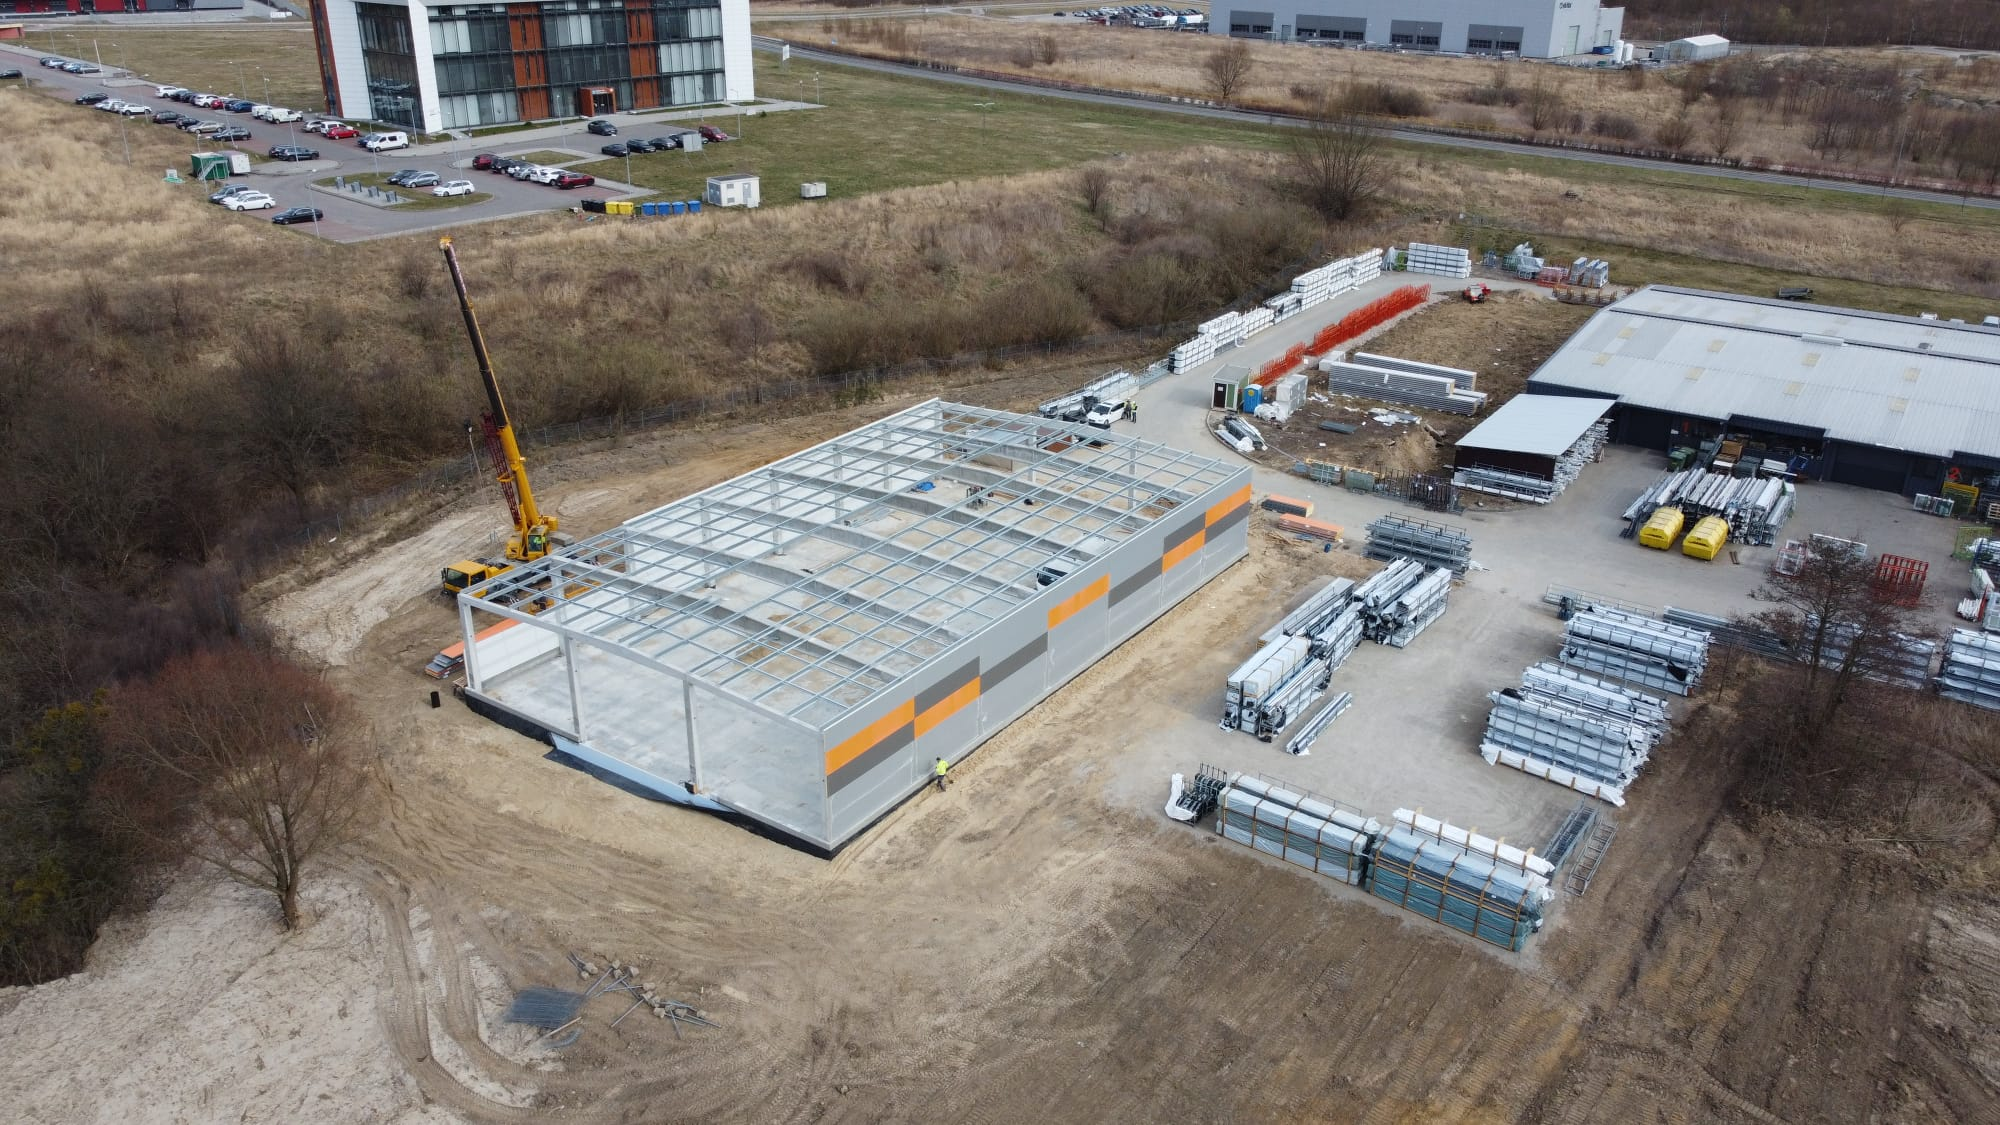
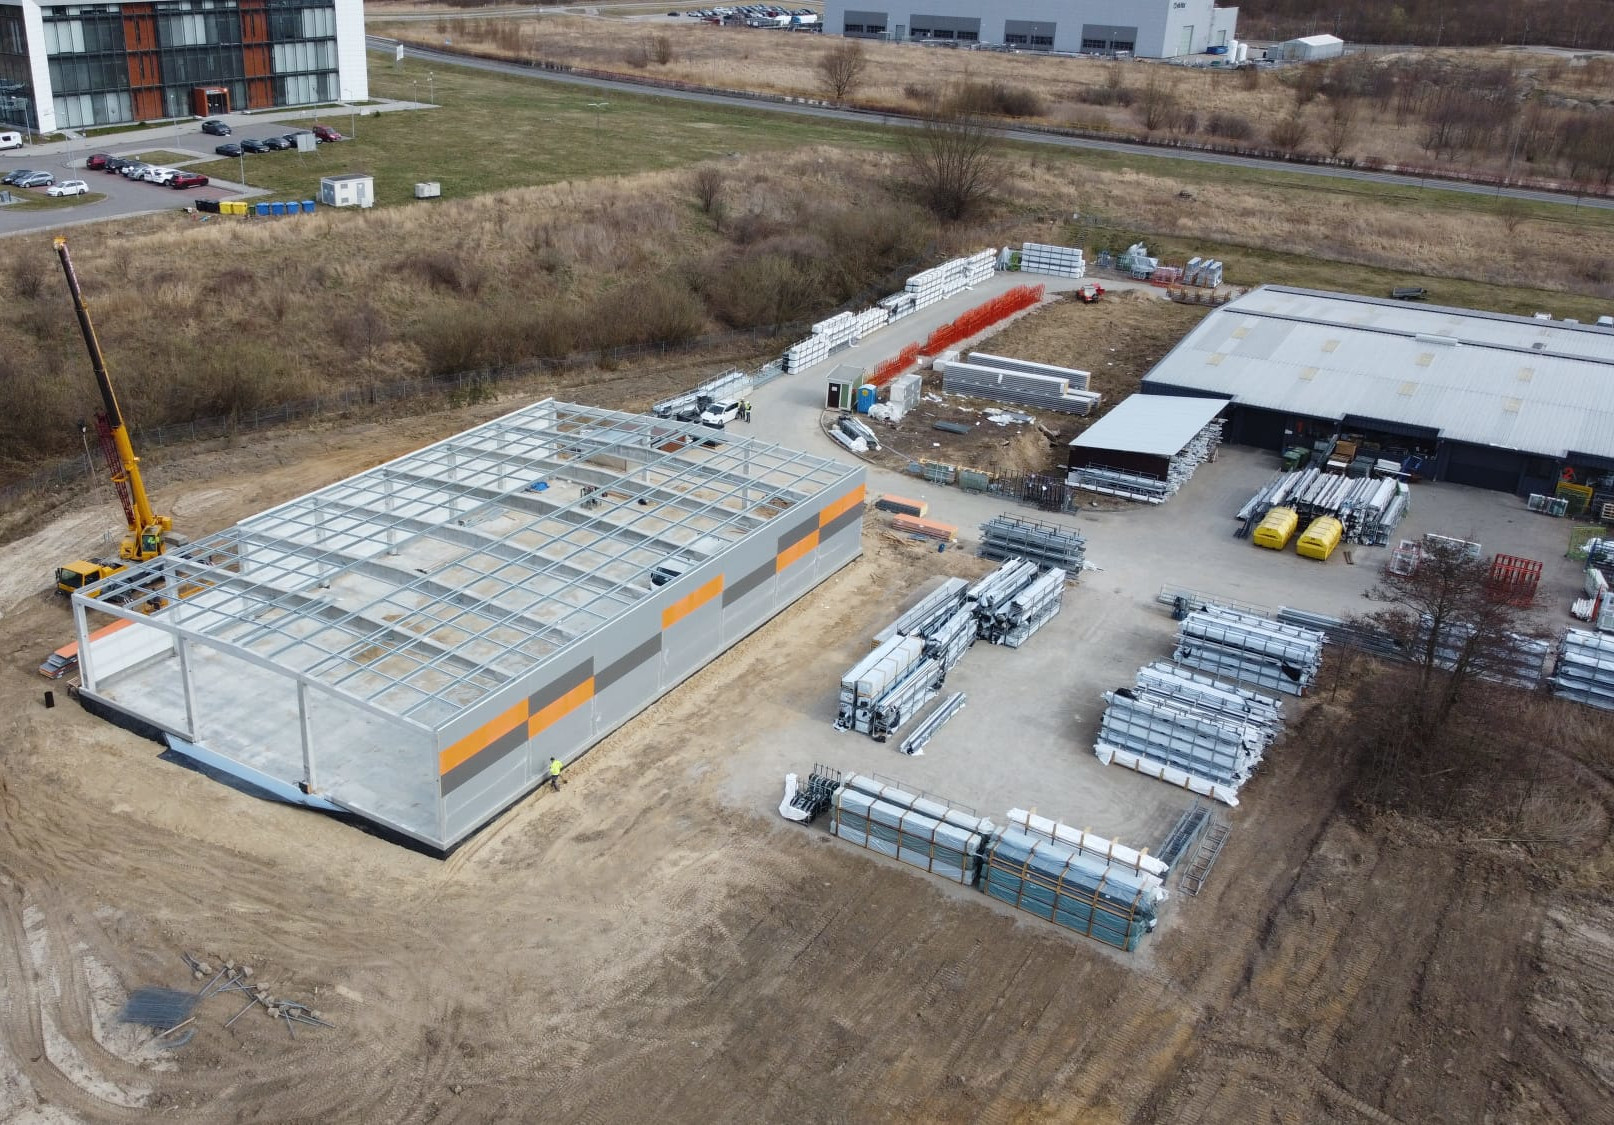
24

diff --git a/src/pages/index.js b/src/pages/index.js
@@ -16,6 +16,8 @@ import LanguageSwitcher from "../components/languageSwitcher";
 import * as PropTypes from "prop-types";
 import ImagesScrolling from "../components/scrollEffect";
 import TilesAbout from "../components/tilesAbout";
+// import teaserImg from "../images/boxer1.jpg"
+import teaserImg from "../images/hero12.jpg"
 
 const variants = {
     initial: {
@@ -146,6 +148,87 @@ const Index = ({data, location}) => {
                 <FadeInWhenVisible delay={0.4}>
                     <Tiles/>
                 </FadeInWhenVisible>
+
+
+                <section>
+                    <div className="teaser">
+                        {/*<div className="col-6 teaser__left">*/}
+                        <figure>
+                            {/*<img src={teaserImg} alt="BBS" />*/}
+                            <ImagesScrolling scaleValue={1.3} pictureSrc={teaserImg} alt="BBS Polska"/>
+                        </figure>
+                        {/*</div>*/}
+
+                        <div className="col-6 teaser__right">
+                            <h2 className="heading padding-x-xl padding-top-xl">
+                                Oferowane uslugi
+                            </h2>
+                            <div className="grid padding-x-xl">
+                                <div className="col-8">
+                                    <p className="paragraph-larger">Budujemy z myślą o kliencie oraz użytkownikach, którzy będą korzystać z wykonanych przez nas obiektów. </p>
+                                </div>
+                            </div>
+
+                            <div className="grid gap-lg padding-x-xl padding-top-xxxl">
+
+                                <div className="col-6@md margin-y-lg">
+                                    <h4>Prefabrykacja konstrukcji</h4>
+                                    <p>Oferujemy dostawę konstrukcji stalowej obiektu, zgodnie z wydaną dokumentacją techniczną.</p>
+                                </div>
+
+                                <div className="col-6@md margin-y-lg">
+                                    <h4>Montaż konstrukcji</h4>
+                                    <p>Zapewniamy kompleksowy montaż konstrukcji stalowych. Posiadamy własne brygady montażowe z wieloletnim doświadczeniem.</p>
+                                </div>
+
+                                <div className="col-6@md margin-y-lg">
+                                    <h4>Dachy płaskie</h4>
+                                    <p>Posiadamy wieloletnie doświadczenie w montażu dachów płaskich z technologii membran PVC.Posiadamy wieloletnie doświadczenie w montażu dachów płaskich z technologii membran PVC.</p>
+                                </div>
+
+                            </div>
+
+                        </div>
+                    </div>
+                </section>
+
+                <section className="container">
+                    <div className="grid gap-xxxl@md margin-top-xl">
+                        <div className="col-6@md">
+                            <FadeInWhenVisible delay={.1}>
+                                <h2 className="heading">Zapewniamy techniczne i terminowe podejście do każdej realizacji.</h2>
+                            </FadeInWhenVisible>
+                        </div>
+                        <div className="col-6@md">
+
+                            <FadeInWhenVisible delay={.4}>
+                                <h3>Dzięki posiadanemu doświadczeniu, zdobytemu przez naszych pracowników w <span>Polsce</span> i w <span>UE</span>, możemy podjąć się realizacji obiektów spełniając oczekiwania naszych klientów.</h3>
+                            </FadeInWhenVisible>
+
+                            <div className="grid gap-md margin-y-xxxl">
+                                <div className="col-6@md">
+                                    <FadeInWhenVisible delay={0.2}>
+                                        <p>
+                                            Świadzczymy usługi z zakresu budownictwa przemysłowego. Głównym profilem działalności naszej spółki, jest montaż obiektów przemsyłowych opartych o rozwiązania z zakresu konstrukcji stalowych. W portfolio zakończonych obiektów firmy <span>BBS POLSKA</span>, znajdują się liczne hale magazynowe, produkcyjne, jak również modernizacje obiektów istniejących.
+                                        </p>
+                                    </FadeInWhenVisible>
+
+                                    <Link to="/realizacje" href="" className="btn btn--dark margin-top-xxl ">Nasze
+                                        realizacje
+                                    </Link>
+
+                                </div>
+                                <div className="col-6@md">
+                                    <FadeInWhenVisible delay={0.3}>
+                                        <p>Satysfakcją dla naszej firmy jest zakończenie inwestycji w terminie, przy zachowaniu zasad bezpieczeństwa oraz zakładanego budżetu finansowego.</p>
+                                    </FadeInWhenVisible>
+
+                                </div>
+
+                            </div>
+                        </div>
+                    </div>
+                </section>
 
 
                 <motion.section className="bild "

diff --git a/src/components/counter.js b/src/components/counter.js
@@ -1,13 +1,14 @@
 import React, { useEffect, useRef } from "react";
-import { animate, motion } from "framer-motion";
-import { useInView } from "react-intersection-observer";
+import {animate, motion, useAnimation} from "framer-motion";
+// import { useInView } from "react-intersection-observer";
 
 function Counter({ from, to }) {
     const ref = useRef();
-    const inView = useInView();
+    // const inView = useInView();/
 
     useEffect(() => {
-        if(inView){
+        // if(inView){
+
             const controls = animate(from, to, {
                 duration: 1,
                 onUpdate(value) {
@@ -15,7 +16,7 @@ function Counter({ from, to }) {
                 }
             });
             return () => controls.stop();
-        }
+        // }
     }, [from, to, ref]);
 
     return <motion.span className="tile__number"

diff --git a/src/pages/o-nas.js b/src/pages/o-nas.js
@@ -1,13 +1,15 @@
 import * as React from "react"
 import {Link, graphql} from "gatsby"
 // import Layout from "../components/layout"
-import sectionImage from '../images/bild3.jpg'
 import Seo from "../components/seo"
 import HeroReversed from "../components/heroReversed";
 import Contact from "../components/contact";
 import hero6 from "../images/bild2.jpg";
 import TilesServices from "../components/tilesServices";
 import TilesAbout from "../components/tilesAbout";
+// import sectionImage from '../images/bild3.jpg'
+import sectionImage from '../images/drone1.jpg'
+
 
 const About = ({data, location}) => {
     const siteTitle = data.site.siteMetadata?.title || `Title`

diff --git a/src/pages/uslugi.js b/src/pages/uslugi.js
@@ -5,10 +5,11 @@ import Seo from "../components/seo"
 import Hero from "../components/hero"
 import HeroReversed from "../components/heroReversed";
 import Contact from "../components/contact";
-import TilesServices from "../components/tilesServices";
+// import TilesServices from "../components/tilesServices";
 import hero6 from "../images/hero12.jpg";
 // import sectionImage from "../images/projects/montaz-hali-magazynowej-2000m2.jpg"
-import sectionImage from "../images/hero10.jpg"
+// import sectionImage from "../images/hero10.jpg"
+import sectionImage from "../images/drone2.jpg"
 
 
 const Services = ({data, location}) => {

diff --git a/src/components/hero.js b/src/components/hero.js
@@ -1,5 +1,6 @@
 import * as React from "react"
-import img from "../images/heroIndex.jpg"
+// import img from "../images/heroIndex.jpg"
+import img from "../images/hero8.jpg"
 // import img from "../images/hero25.jpg"
 import {Link} from "gatsby";
 import {motion} from "framer-motion";

diff --git a/src/index.scss b/src/index.scss
@@ -397,7 +397,7 @@ body {
   width: 100vw;
   height: 100vh;
   //background-image: url("images/bild1.jpg");
-  background-image: url("images/hero8.jpg");
+  background-image: url("images/drone2.jpg");
   display: block;
   background-origin: content-box;
   background-size: cover;

diff --git a/gatsby-config.js b/gatsby-config.js
@@ -76,6 +76,7 @@ module.exports = {
         languages: [`pl`, `en`],
         defaultLanguage: `pl`,
         siteUrl: `http://localhost:8000/`,
+        // generateDefaultLanguagePage: true,
         i18nextOptions: {
           fallbackLng: 'pl',
           interpolation: {
